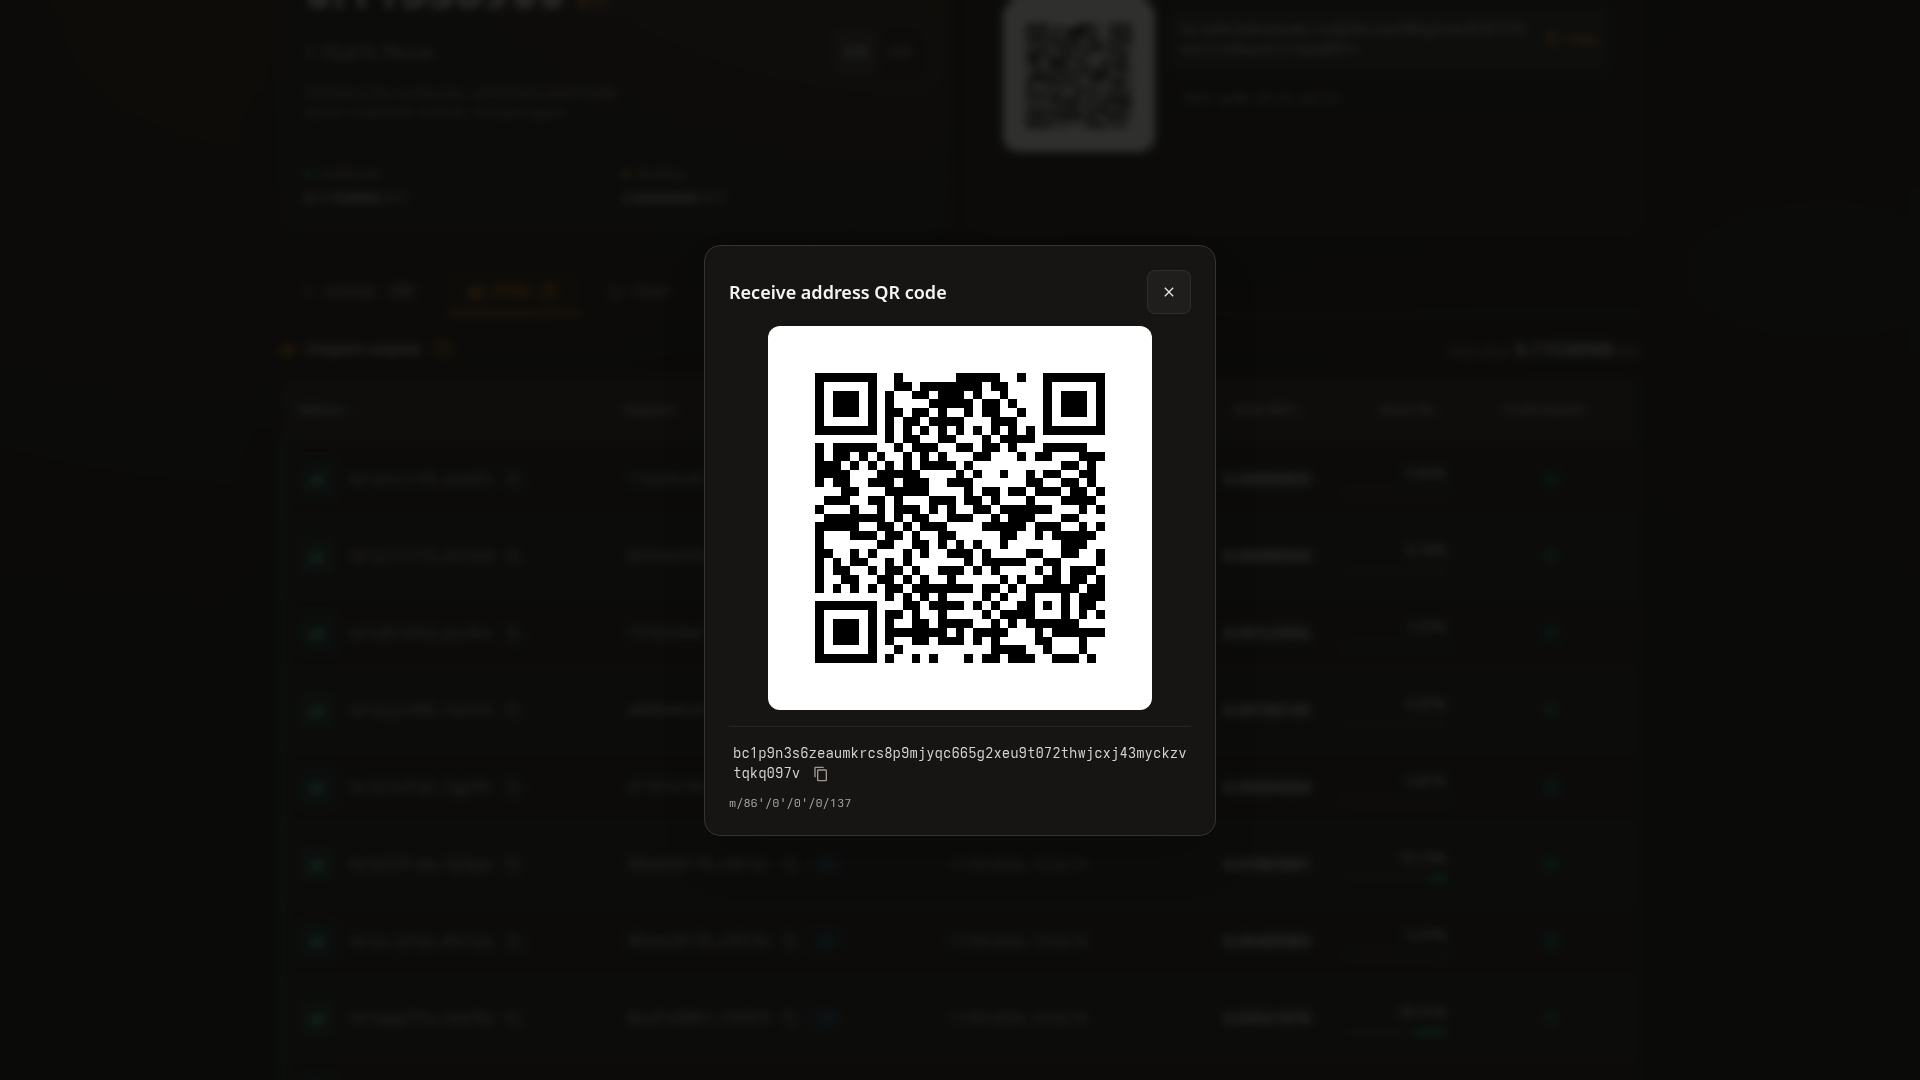
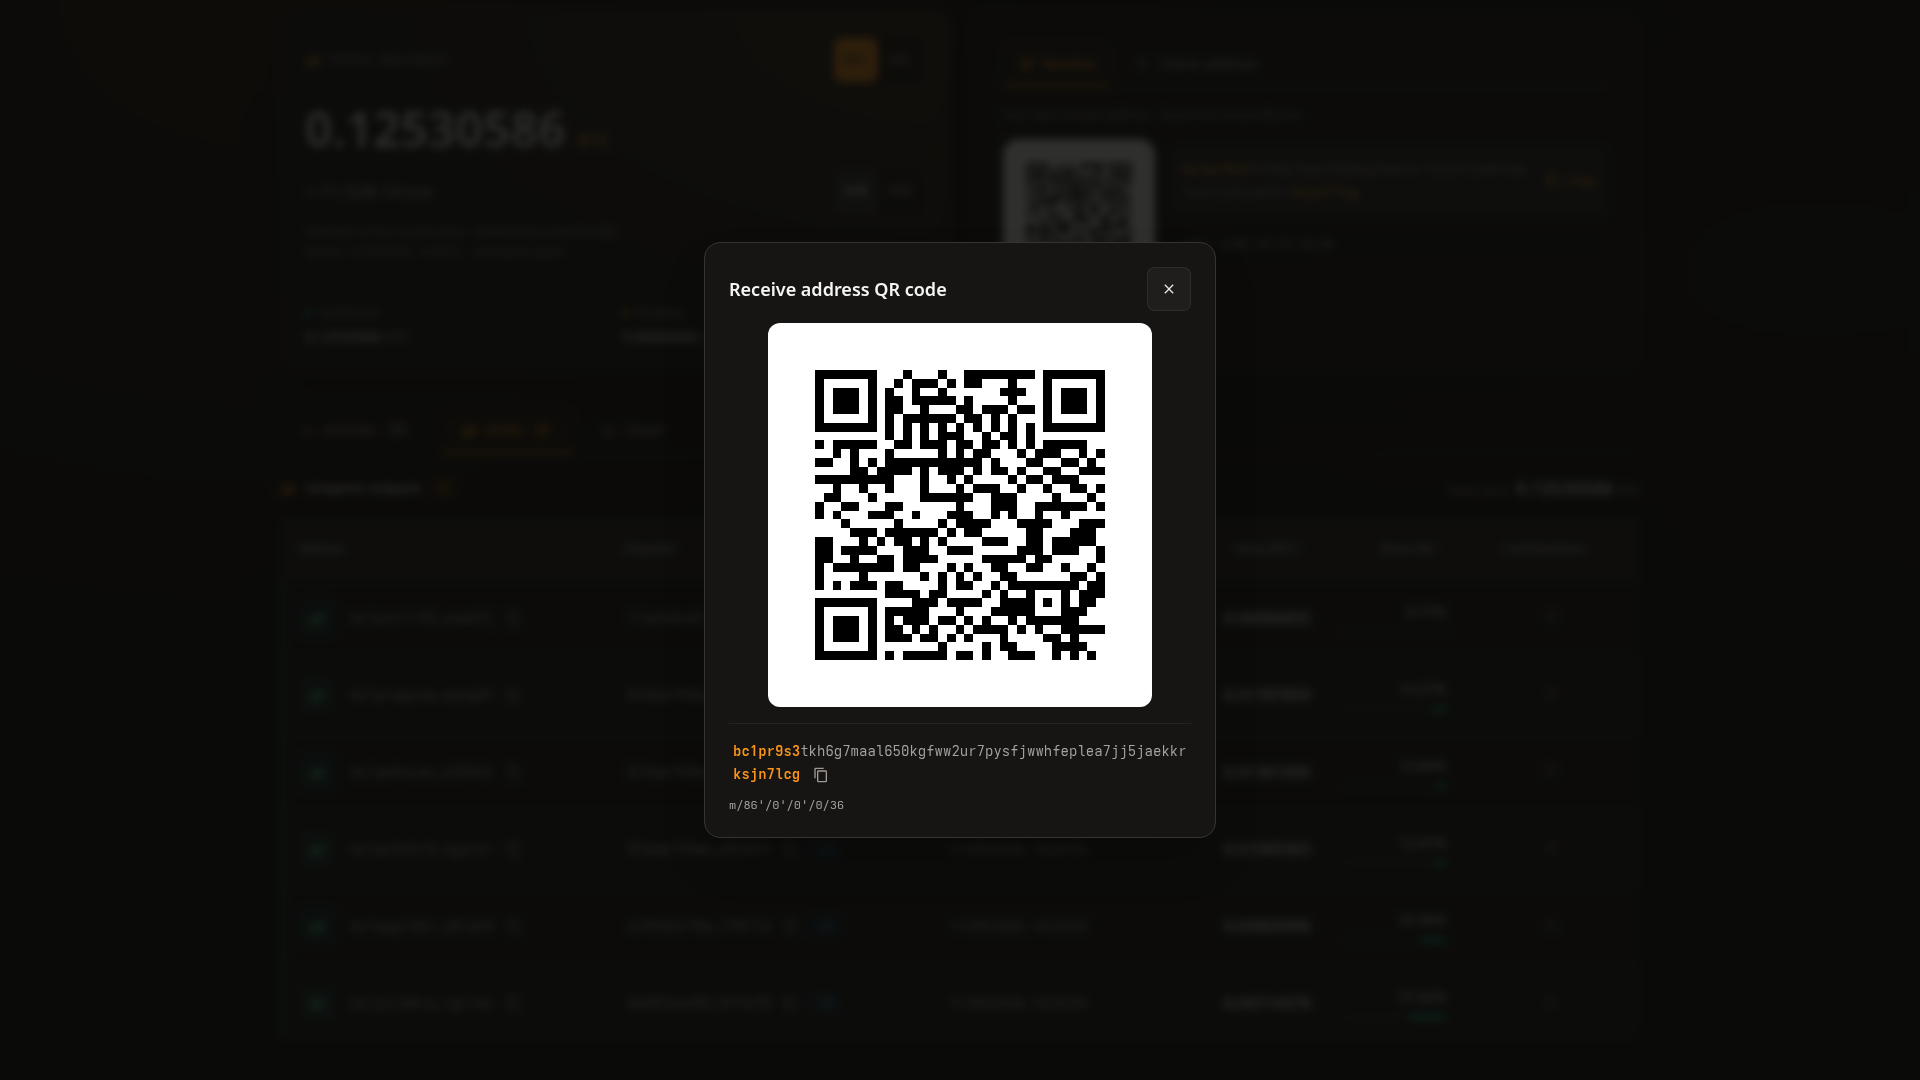
Highlight receiving address ends and streamline activity columns

diff --git a/src/main/webui/src/components/TransactionsSection.vue b/src/main/webui/src/components/TransactionsSection.vue
@@ -110,6 +110,7 @@ function clearSearch(): void {
     </ul>
     <div v-if="filtered.length" class="wallet-panel hidden lg:block">
       <table class="w-full table-fixed text-sm">
+        <colgroup><col class="w-[16%]" /><col class="w-[34%]" /><col class="w-[16%]" /><col class="w-[20%]" /><col class="w-[14%]" /></colgroup>
         <thead>
           <tr class="text-xs uppercase text-slate-400">
             <th v-for="column in columns" :key="column.key" scope="col" :aria-sort="ariaSort(column.key)" class="px-3 py-1 font-medium" :class="column.key === 'confirmations' ? 'text-center' : column.numeric ? 'text-right' : 'text-left'">
@@ -118,14 +119,13 @@ function clearSearch(): void {
                 <span aria-hidden="true" class="ml-1" :class="sortKey === column.key ? 'text-accent' : 'text-slate-600'">{{ sortKey === column.key ? (descending ? '↓' : '↑') : '↕' }}</span>
               </button>
             </th>
-            <th scope="col" class="w-24 px-3 py-1 text-right font-medium"><span class="sr-only">Details</span></th>
           </tr>
         </thead>
         <tbody v-auto-animate>
           <tr v-for="tx in visible" :key="tx.txid" class="cursor-pointer border-t border-slate-800 transition hover:bg-slate-800/50 focus-within:bg-slate-800/50" @click="openDetails(tx.txid, $event)">
-            <td class="px-3 py-2.5"><TransactionBadge :type="tx.type" /></td>
+            <td class="px-3 py-2.5"><button type="button" data-tx-details aria-haspopup="dialog" aria-controls="transaction-details-dialog" :aria-label="`Show details for transaction ${tx.txid}`" class="inline-flex max-w-full items-center rounded-md text-left" @click.stop="openDetails(tx.txid, $event)"><TransactionBadge :type="tx.type" /></button></td>
             <td class="px-3 py-2.5">
-              <CopyValue :value="tx.txid" :display="shortId(tx.txid)" label="transaction ID" />
+              <CopyValue :value="tx.txid" :display="`${tx.txid.slice(0, 16)}…${tx.txid.slice(-10)}`" label="transaction ID" />
             </td>
             <td class="px-3 py-2.5 text-slate-300">{{ formatDate(tx.timestamp) }}</td>
             <td class="sensitive px-3 py-2.5 text-right tabular-nums">
@@ -133,7 +133,6 @@ function clearSearch(): void {
               <span class="mt-1 block text-xs text-slate-400">{{ rates ? '≈ ' : '' }}{{ conceal(formatAmount(tx.amount, fiatCurrency, rates, true)) }} {{ fiatCurrency }}</span>
             </td>
             <td class="px-3 py-2.5 text-center"><ConfirmationStatus :confirmations="tx.confirmations" compact icon-only /></td>
-            <td class="px-3 py-2.5 text-right"><button type="button" data-tx-details aria-haspopup="dialog" aria-controls="transaction-details-dialog" :aria-label="`Show details for transaction ${tx.txid}`" class="inline-flex items-center justify-center rounded-lg px-2 py-1 text-accent hover:bg-accent/10" @click.stop="openDetails(tx.txid, $event)"><UiIcon name="chevron-right" /></button></td>
           </tr>
         </tbody>
       </table>

diff --git a/src/main/webui/src/components/ReceiveAddressCard.vue b/src/main/webui/src/components/ReceiveAddressCard.vue
@@ -1,10 +1,11 @@
 <script setup lang="ts">
 import { computed, ref, useTemplateRef } from 'vue';
-import { walletApi } from '@/services/walletApi';
-import type { ReceiveAddress } from '@/types/wallet';
-import { useClipboard } from '@/composables/useClipboard';
-import AddressCheckForm from '@/components/AddressCheckForm.vue';
-import UiIcon from '@/components/UiIcon.vue';
+import { walletApi } from '../services/walletApi';
+import type { ReceiveAddress } from '../types/wallet';
+import { useClipboard } from '../composables/useClipboard';
+import AddressCheckForm from './AddressCheckForm.vue';
+import UiIcon from './UiIcon.vue';
+import BitcoinAddress from './BitcoinAddress.vue';
 
 const props = defineProps<{ receive: ReceiveAddress }>();
 const emit = defineEmits<{ enlarge: [address: ReceiveAddress, trigger: HTMLButtonElement] }>();
@@ -89,7 +90,7 @@ function navigateTabs(event: KeyboardEvent, index: number): void {
             @click="copy(receive.address, 'address')"
             class="group my-2 flex w-full items-center gap-3 rounded-lg border border-slate-700 bg-slate-800 p-2.5 text-left transition hover:border-accent/60 hover:bg-slate-800/80"
           >
-            <span class="min-w-0 flex-1 select-text break-all font-mono text-sm text-slate-200">{{ receive.address }}</span>
+            <BitcoinAddress :address="receive.address" class="min-w-0 flex-1 select-text text-sm" />
             <span class="inline-flex shrink-0 items-center gap-1.5 text-xs font-semibold" :class="copied ? 'text-emerald-400' : 'text-accent'"><UiIcon :name="copied ? 'check' : 'copy'" />{{ copied ? 'Copied' : 'Copy' }}</span>
           </button>
           <p v-if="error" role="status" class="text-xs text-rose-400">{{ error }}</p>

diff --git a/src/main/webui/src/components/ReceiveQrDialog.vue b/src/main/webui/src/components/ReceiveQrDialog.vue
@@ -1,10 +1,11 @@
 <script setup lang="ts">
 import { nextTick, shallowRef, useTemplateRef } from 'vue';
-import { walletApi } from '@/services/walletApi';
-import type { ReceiveAddress } from '@/types/wallet';
-import { useModalDialog } from '@/composables/useModalDialog';
-import UiIcon from '@/components/UiIcon.vue';
-import CopyValue from '@/components/CopyValue.vue';
+import { walletApi } from '../services/walletApi';
+import type { ReceiveAddress } from '../types/wallet';
+import { useModalDialog } from '../composables/useModalDialog';
+import UiIcon from './UiIcon.vue';
+import CopyValue from './CopyValue.vue';
+import BitcoinAddress from './BitcoinAddress.vue';
 
 const dialog = useTemplateRef<HTMLDialogElement>('dialog');
 const receive = shallowRef<(ReceiveAddress & { url: string }) | null>(null);
@@ -55,7 +56,7 @@ defineExpose({ open });
     <template v-if="receive">
       <img :src="receive.url" alt="Receive address QR code" class="mx-auto aspect-square w-full max-w-96 rounded-xl bg-white p-3" />
       <div class="mt-4 min-w-0 border-t border-slate-700/50 pt-3">
-        <CopyValue :value="receive.address" label="receive address" class="w-full text-sm" />
+        <CopyValue :value="receive.address" label="receive address" class="w-full text-sm"><BitcoinAddress :address="receive.address" /></CopyValue>
         <p class="mt-2 break-all font-mono text-xs text-slate-400">{{ receive.path }}</p>
       </div>
     </template>

diff --git a/src/main/webui/src/components/CopyValue.vue b/src/main/webui/src/components/CopyValue.vue
@@ -18,7 +18,7 @@ watch(() => props.value, reset);
       :class="statusRight ? 'min-w-0 w-full' : ''"
       :aria-label="`Copy ${label}: ${value}`"
       @click.stop="copy(value, label)"
-    >{{ display ?? value }} <UiIcon :name="copied ? 'check' : 'copy'" class="ml-1 inline-block h-3 w-3 align-middle transition-colors" :class="copied ? 'text-emerald-400' : 'text-slate-500 group-hover/copy:text-accent group-focus-visible/copy:text-accent'" /></button>
+    ><slot>{{ display ?? value }}</slot> <UiIcon :name="copied ? 'check' : 'copy'" class="ml-1 inline-block h-3 w-3 align-middle transition-colors" :class="copied ? 'text-emerald-400' : 'text-slate-500 group-hover/copy:text-accent group-focus-visible/copy:text-accent'" /></button>
     </AppTooltip>
     <span v-if="error" role="status" class="break-words font-sans text-xs text-rose-400" :class="statusRight ? 'shrink-0' : 'block'">{{ error }}</span>
   </span>

diff --git a/src/main/webui/src/components/BitcoinAddress.vue b/src/main/webui/src/components/BitcoinAddress.vue
@@ -1,0 +1,7 @@
+<script setup lang="ts">
+defineProps<{ address: string }>();
+</script>
+
+<template>
+  <span class="break-all font-mono leading-relaxed tracking-normal text-slate-400"><span class="font-semibold text-accent">{{ address.slice(0, 8) }}</span>{{ address.slice(8, -8) }}<span class="font-semibold text-accent">{{ address.slice(Math.max(8, address.length - 8)) }}</span></span>
+</template>
